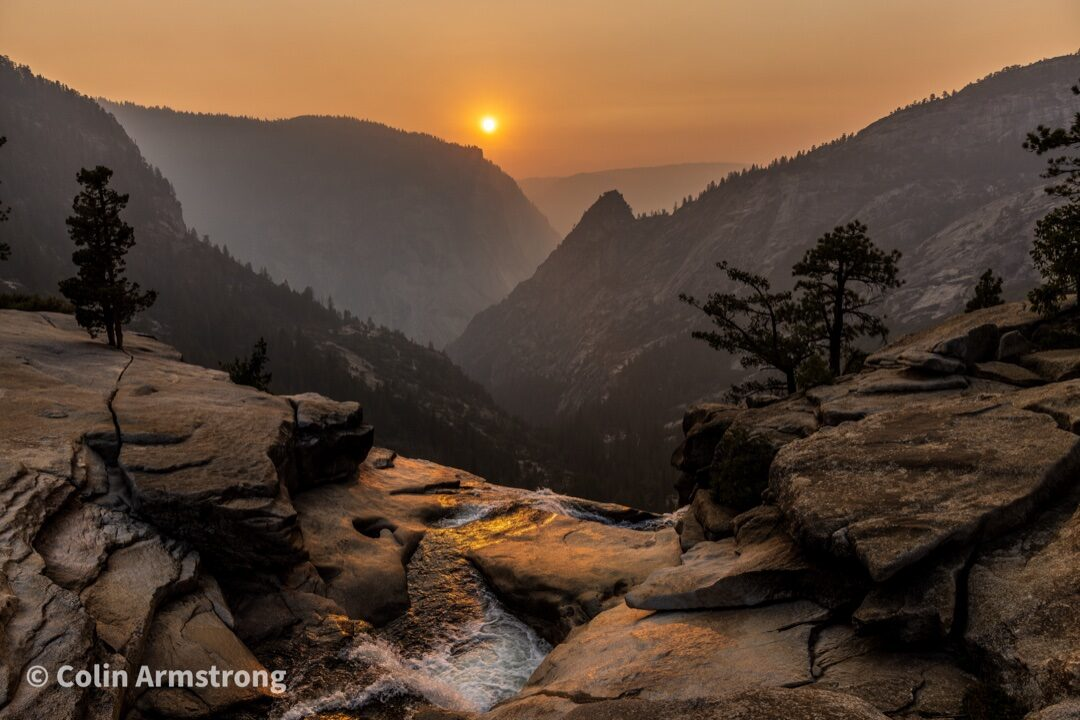
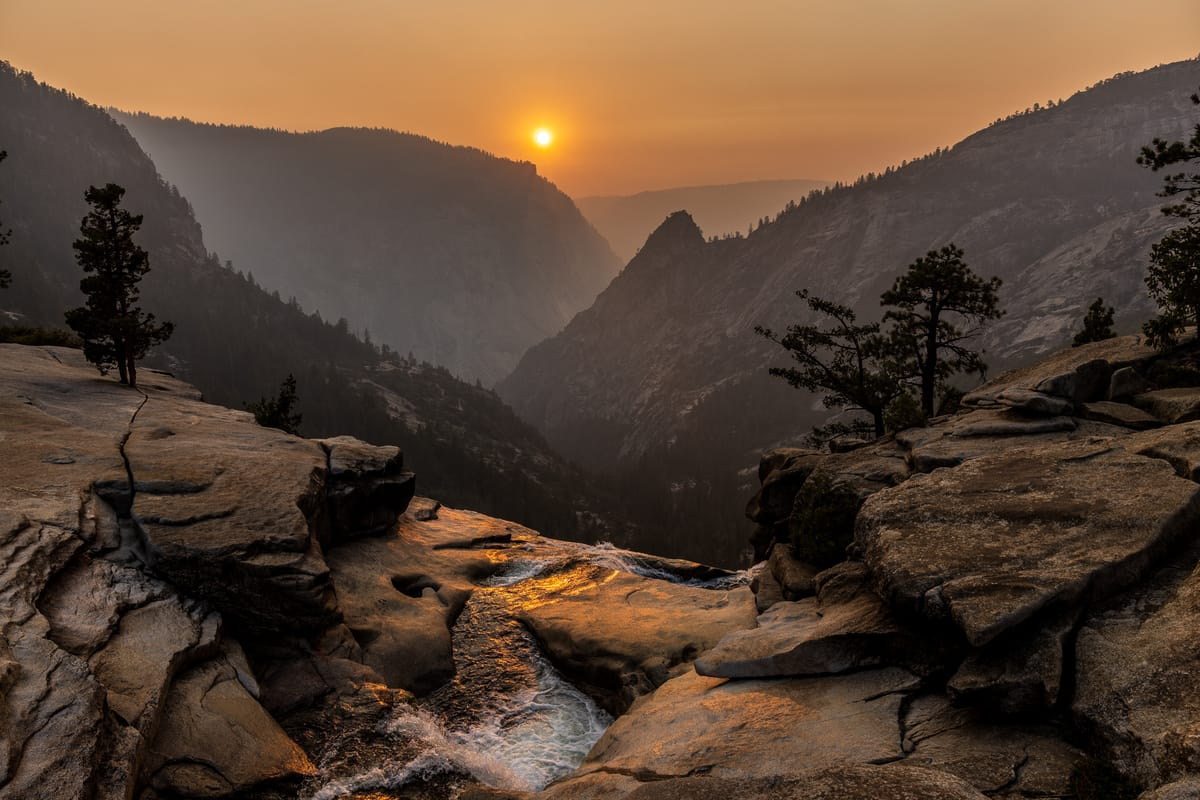
Full posts in the feed, heading links, Updated dates, share image check (#17)
- feed.xml carries each post in full (Paragraph's HTML), with the author,
  a self link, the language and a lastBuildDate from the newest post.
- Post headings get their ids when the site builds, so links to a section
  work before any script runs. They're the ids the table of contents gave
  them in the browser.
- A post edited on a later day (src/data/posts.ts) shows "Updated <date>",
  on the page and in its Markdown. A bare date is now written as that day,
  rather than the day before in California.
- The build fails if a page's share image is missing or under 1200px wide.
  It caught the photography page's (1080px), now made 1200×800 from the
  original photo.

diff --git a/src/pages/feed.xml.ts b/src/pages/feed.xml.ts
@@ -1,22 +1,41 @@
 import rss from '@astrojs/rss'
 import type { APIContext } from 'astro'
-import { getColinArticles } from '@/lib/getAllArticles'
+import { person } from '@/data/profile'
+import { getColinArticlesWithContent } from '@/lib/getAllArticles'
 
 export const prerender = true
 
+// Each post in full, so a feed reader shows the whole post rather than one
+// line. It's Paragraph's own HTML, whose links and images are already
+// absolute; the page's resized images and code colours live on armstr.ng, so
+// they stay off the feed.
 export async function GET(context: APIContext) {
-  const articles = await getColinArticles()
+  const posts = (await getColinArticlesWithContent()).filter((post) => !post.unlisted)
+  const feed = new URL('/feed.xml', context.site).href
+  // When the newest post last changed, not when the site was built: a
+  // rebuild alone isn't news.
+  const updated = posts.map((post) => post.updatedIso).sort().at(-1)
 
   return rss({
     title: 'Colin Armstrong',
     description: 'Writing about startups, product, and engineering.',
     site: context.site!.href,
     trailingSlash: false,
-    items: articles.map((post) => ({
+    xmlns: { atom: 'http://www.w3.org/2005/Atom' },
+    customData: [
+      '<language>en-us</language>',
+      `<atom:link href="${feed}" rel="self" type="application/rss+xml"/>`,
+      updated && `<lastBuildDate>${new Date(updated).toUTCString()}</lastBuildDate>`,
+    ]
+      .filter(Boolean)
+      .join(''),
+    items: posts.map((post) => ({
       title: post.title,
       description: post.subtitle || undefined,
+      content: post.html || undefined,
       pubDate: new Date(post.isoDate),
-      link: post.link,
+      link: `/writing/${post.slug}`,
+      author: `${person.email} (${person.name})`,
     })),
   })
 }

diff --git a/src/lib/headings.ts b/src/lib/headings.ts
@@ -1,0 +1,33 @@
+import { decode } from './format'
+
+// Ids the post page already uses around the post, and "top", which the table
+// of contents links to (a browser scrolls to the top for #top when nothing
+// else has that id).
+const TAKEN = ['top', 'content', 'subscribe', 'subscribe-title', 'keep-reading', 'site-footer']
+
+/** "Unused Imports & Variables" → "unused-imports-variables" */
+export const headingSlug = (text: string) =>
+  text
+    .toLowerCase()
+    .replace(/[^a-z0-9]+/g, '-')
+    .replace(/^-|-$/g, '')
+
+/**
+ * Gives each heading in a post's HTML an id made from its text, so a link to
+ * a section works before any script runs, and search engines see the same
+ * anchors every time. They're the ids the table of contents used to give the
+ * headings in the browser (src/components/PageToc.astro), so links people
+ * already shared still land in the right place.
+ */
+export function headingIds(html: string): string {
+  const used = new Set([...TAKEN, ...[...html.matchAll(/\sid="([^"]*)"/g)].map((m) => m[1])])
+  return html.replace(/<(h[1-6])(\s[^>]*)?>([\s\S]*?)<\/\1>/gi, (match, tag: string, attrs = '', inner: string) => {
+    if (/\sid=/i.test(attrs)) return match
+    const text = decode(inner.replace(/<[^>]+>/g, '')).trim()
+    if (!text) return match
+    let id = headingSlug(text) || 'section'
+    while (used.has(id)) id += '-'
+    used.add(id)
+    return `<${tag} id="${id}"${attrs}>${inner}</${tag}>`
+  })
+}

diff --git a/src/lib/format.ts b/src/lib/format.ts
@@ -9,8 +9,13 @@ const medium = new Intl.DateTimeFormat('en-US', { month: 'short', day: 'numeric'
 const short = new Intl.DateTimeFormat('en-US', { month: 'short', day: 'numeric', timeZone: TZ })
 const yearOnly = new Intl.DateTimeFormat('en-US', { year: 'numeric', timeZone: TZ })
 
+// A bare day ('2026-10-02', as in src/data/posts.ts) reads as midnight UTC,
+// which is still the day before in California, so it's written as is.
+const longDay = new Intl.DateTimeFormat('en-US', { month: 'long', day: 'numeric', year: 'numeric', timeZone: 'UTC' })
+const DAY = /^\d{4}-\d{2}-\d{2}$/
+
 /** October 15, 2024 */
-export const longDate = (iso: string) => long.format(new Date(iso))
+export const longDate = (iso: string) => (DAY.test(iso) ? longDay : long).format(new Date(iso))
 /** Oct 15, 2024 */
 export const mediumDate = (iso: string) => medium.format(new Date(iso))
 /** Oct 15 */
@@ -45,7 +50,8 @@ export function readingTime(html: string): number {
 }
 
 const ENTITIES: Record<string, string> = { amp: '&', lt: '<', gt: '>', quot: '"', apos: "'", nbsp: ' ' }
-const decode = (text: string) =>
+/** Decodes the HTML entities in a piece of text: &amp; → &. */
+export const decode = (text: string) =>
   text.replace(/&(#x?[0-9a-f]+|\w+);/gi, (match, entity: string) => {
     if (!entity.startsWith('#')) return ENTITIES[entity] ?? match
     const code = entity[1] === 'x' ? parseInt(entity.slice(2), 16) : parseInt(entity.slice(1), 10)

diff --git a/src/pages/writing/[slug].md.ts b/src/pages/writing/[slug].md.ts
@@ -16,6 +16,8 @@ export const getStaticPaths = (async () => {
 export const GET: APIRoute = ({ params, props }) => {
   const { title, subtitle, html, markdown: body, isoDate, updatedIso } = props
   const minutes = html ? readingTime(html) : 0
+  // As on the page: only for a post edited on a later day.
+  const updated = longDate(updatedIso) === longDate(isoDate) ? undefined : longDate(updatedIso)
 
   return markdown(
     frontMatter({
@@ -28,7 +30,9 @@ export const GET: APIRoute = ({ params, props }) => {
     }),
     `# ${title}`,
     subtitle,
-    [person.name, longDate(isoDate), minutes > 0 && `${minutes} minute read`].filter(Boolean).join(' · '),
+    [person.name, longDate(isoDate), updated && `Updated ${updated}`, minutes > 0 && `${minutes} minute read`]
+      .filter(Boolean)
+      .join(' · '),
     body?.trim() || "This post's text couldn't be loaded when the site was built.",
   )
 }
